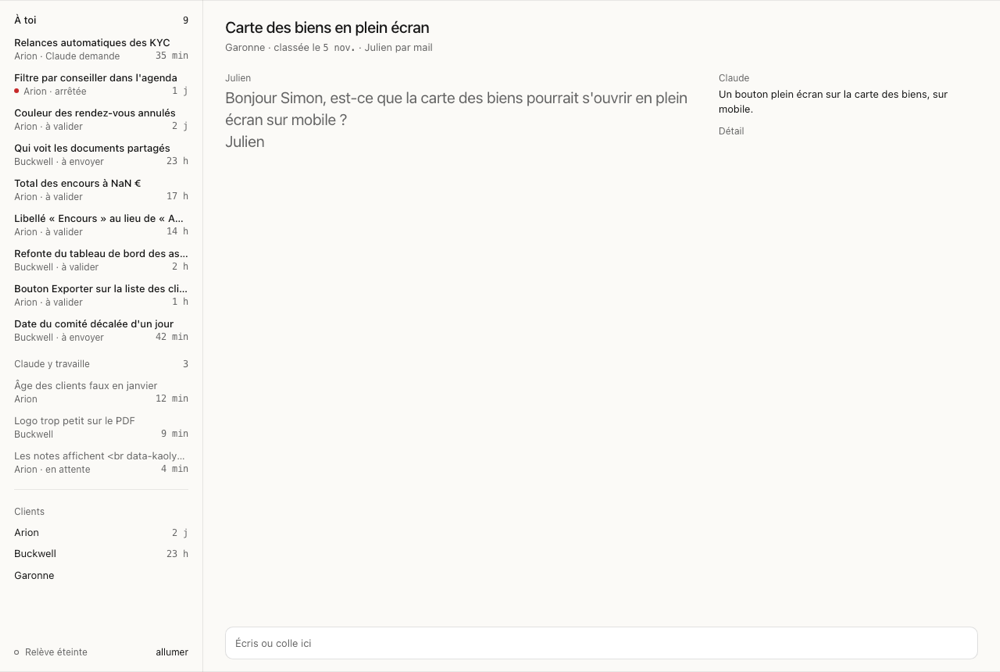
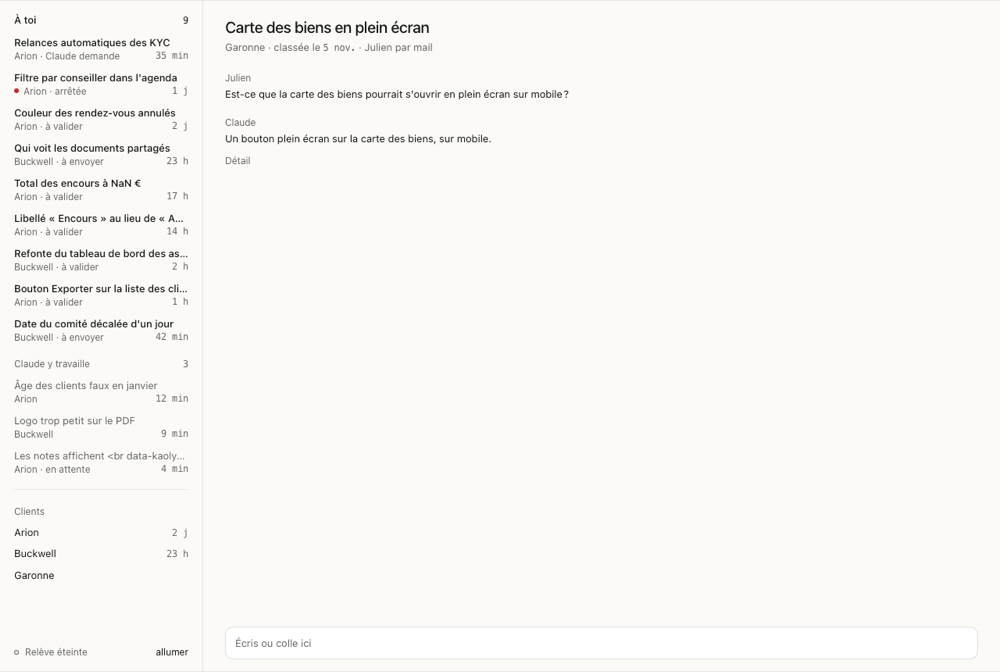
Traces de la reprise : arbre (jugement apparié des trois idées, note finale 93,7) et rapport de la nuit à jour
Le fil à une seule place entre (juges 52→52, 54→56) ; la règle de taille de la
preuve (52→50, 54→54) et le mot par état (56→54, 54→54) restent dehors. Le
rapport dit que la baisse de 97,7 à 90,7 vient du changement de juge, clôt la
retouche qui partait seule (e2f6bf9) et refait les captures changées depuis
eval/sorties/reprise-fil. Note automatique finale 39,7.

Changed region(s): [[0.217, 0.125, 0.682, 0.25], [0.713, 0.0938, 0.961, 0.2188]]

diff --git a/docs/rapport-nuit.html b/docs/rapport-nuit.html
@@ -262,7 +262,7 @@ tr.unsure>td:first-child{padding-left:10px}
 <header class="hero">
 <div class="eyebrow">Kaoly Clients · nuit du 12 au 13 novembre 2026 · branche nuit-2026-11-13</div>
 <h1>Point d'étape de la nuit</h1>
-<p class="lead">L'application tient sur une fenêtre : ce qui t'attend à gauche, une demande à droite, la preuve sous les yeux, un geste pour valider. Note finale 90,7 sur 100, page de départ à 10,2 sur 40.</p>
+<p class="lead">L'application tient sur une fenêtre : ce qui t'attend à gauche, une demande à droite, la preuve sous les yeux, un geste pour valider. Note finale 93,7 sur 100, page de départ à 10,2 sur 40.</p>
 </header>
 
 <nav class="toc" aria-label="Sommaire"><ul>
@@ -272,9 +272,10 @@ tr.unsure>td:first-child{padding-left:10px}
 <h2 id="change">Ce qui change pour toi</h2>
 <ol class="cinq">
 <li><strong>Une fenêtre, une demande à la fois.</strong> À gauche « À toi » avec son compte, puis ce que Claude a en main, puis tes clients. Plus de cartes empilées ni d'étiquettes de couleur.</li>
+<li><strong>Le fil se lit pareil partout.</strong> Le client, puis Claude, puis ton message, toujours dans cet ordre ; sans image, le fil prend la place de la preuve. Le message du client est entier, sans « Bonjour » ni signature.</li>
 <li><strong>Valider tient en un geste.</strong> La preuve (Après, Avant, Vidéo, capture du client), la phrase de Claude, le message au client et « Mettre en ligne et envoyer » (<kbd>⌘↵</kbd>) sur le même écran ; 5 s pour annuler.</li>
 <li><strong>La barre agit.</strong> « ok », « envoie », « classe » font le geste de la demande ouverte ; une question de Claude se règle d'un clic ou de <kbd>⌘1</kbd>.</li>
-<li><strong>Ce qui se règle seul ne te dérange plus.</strong> Un conflit à la mise en ligne repart sans toi ; tu n'es appelé qu'à la seconde panne.</li>
+<li><strong>Ce qui se règle seul ne te dérange plus.</strong> Un conflit à la mise en ligne repart sans toi ; tu n'es appelé qu'à la seconde panne. Ce que tu as déjà relu ne repart jamais seul en ligne.</li>
 <li><strong>Fermer la fenêtre ne coupe plus rien.</strong> La relève et Claude continuent, le Dock garde le compte (après un nouveau build).</li>
 </ol>
 
@@ -286,6 +287,8 @@ tr.unsure>td:first-child{padding-left:10px}
 <figure class="shot"><img src="captures/client.png" alt="Fiche du client Arion : registre des demandes et réglages" width="1000" height="672" loading="lazy">
 <figcaption>Un client : ce qui t'attend, ce que Claude a en main, le passé en gris, ses réglages à côté.</figcaption></figure>
 </div>
+<figure class="shot"><img src="captures/classee.png" alt="Demande classée : Julien puis Claude, à la place de la preuve" width="1000" height="672" loading="lazy">
+<figcaption>Sans image, le fil prend la place de la preuve : Julien, puis Claude, comme partout.</figcaption></figure>
 
 <h2 id="essayer">L'ouvrir et l'essayer</h2>
 <p><strong>Sans risque, sur le jeu d'essai</strong> (faux Claude, faux GitHub, mail vers ton propre Mac, relève éteinte) :</p>
@@ -303,12 +306,12 @@ bun server.ts</pre>
 <div class="tablewrap narrow"><table>
 <thead><tr><th>Question</th><th>Ma recommandation</th></tr></thead>
 <tbody>
-<tr><td><strong>Le fil à une seule place.</strong> Sur certaines demandes, le message du client passe en grand à gauche, là où tu attends la preuve (capture plus bas). Deux essais refusés cette nuit.</td><td>Gauche = ce que tu regardes (preuve, « Pas de capture », question, panne) ; droite = le fil entier, toujours dans le même ordre. Premier chantier.</td></tr>
 <tr><td><strong>Un mot d'accord envoie.</strong> « ok » ou « envoie » dans la barre valent le bouton plein d'une demande à valider ou à envoyer, avec les mêmes 5 s pour annuler.</td><td>Garder. Repli prêt en une ligne si tu préfères le seul bouton.</td></tr>
 <tr><td><strong>Ce qui part avec le mail.</strong> Par défaut, seule la capture « Après » est jointe ; tu peux la retirer d'un clic.</td><td>Garder : le client voit le résultat, pas l'ancien écran.</td></tr>
-<tr><td><strong>Une retouche qui partirait seule.</strong> Cas rare : tu demandes une retouche sur une demande à valider, puis tu actives « Bugs sans validation » pour ce client ; si c'est un bug, la retouche part en ligne sans toi. Le message au client attend toujours ton clic.</td><td>Corriger : ce que tu as retouché revient à toi. Petit changement.</td></tr>
 <tr><td><strong>La puce de la barre.</strong> Avec une demande ouverte, ce que tu tapes va à cette demande. Coller le mail d'un autre client sans retirer la puce le transmettrait comme retouche.</td><td>Garder ; la puce est visible et <kbd>Échap</kbd> la retire. À revoir si ça t'arrive.</td></tr>
 <tr class="unsure"><td><strong>Le badge du Dock fenêtre fermée.</strong> Écrit, compilé, pas encore vu : <code>build.sh</code> n'a pas été lancé cette nuit.</td><td>Lancer le build ce matin, fermer la fenêtre, regarder si le compte bouge.</td></tr>
+<tr><td><strong>Rejuger les idées refusées.</strong> Trois idées avaient été refusées face à la note d'un autre juge.</td><td><span class="pill good">fait</span> Rejugées avant et après par les mêmes juges : le fil à une seule place entre, les deux autres restent dehors.</td></tr>
+<tr><td><strong>Une retouche qui partirait seule.</strong> Tu demandes une retouche sur une demande à valider, puis tu actives « Bugs sans validation » pour ce client.</td><td><span class="pill good">fait</span> Une demande que tu as déjà relue ne repart plus seule en ligne (<code>e2f6bf9</code>). Le message au client attend toujours ton clic.</td></tr>
 </tbody></table></div>
 
 <h2 id="archi">Ce qui va ensemble, et pourquoi</h2>
@@ -332,8 +335,8 @@ bun server.ts</pre>
 <text class="tb" x="236" y="108">Ce que tu regardes</text>
 <text class="t" x="236" y="132">la preuve : Après · Avant · Vidéo</text>
 <text class="t" x="236" y="152">ou « Pas de capture »</text>
-<text class="t" x="236" y="172">ou la question de Claude</text>
-<text class="t" x="236" y="192">ou la raison de la panne</text>
+<text class="t" x="236" y="172">sans image, le fil vient ici</text>
+<text class="t" x="236" y="192">(question, panne, travail)</text>
 <text class="tb" x="545" y="96">Le fil</text>
 <text class="t" x="545" y="120">Claire · sa demande</text>
 <text class="t" x="545" y="142">Claude · ce qui a changé</text>
@@ -360,33 +363,40 @@ bun server.ts</pre>
 <h2 id="mesure">La mesure</h2>
 <div class="tiles">
 <div class="tile"><div class="n">10,2<small> / 40</small></div><div class="l">page de départ, note automatique seule</div></div>
-<div class="tile"><div class="n">97,7</div><div class="l">le plus haut, au cycle 4</div></div>
-<div class="tile"><div class="n">90,7<small> / 100</small></div><div class="l">final : 39,7 automatique + 51 du juge</div></div>
+<div class="tile"><div class="n">97,7</div><div class="l">au cycle 4, avec le premier juge</div></div>
+<div class="tile"><div class="n">93,7<small> / 100</small></div><div class="l">final : 39,7 automatique + 54 du juge</div></div>
 </div>
 <figure>
-<svg viewBox="0 0 760 270" role="img" aria-labelledby="m1t"><title id="m1t">Note sur 100 par cycle, de 94,7 au cycle 0 à 90,7 à la fin</title>
+<svg viewBox="0 0 760 270" role="img" aria-labelledby="m1t"><title id="m1t">Note sur 100 par cycle, de 94,7 au cycle 0 à 93,7 à la fin ; le juge change après le cycle 4</title>
 <line class="chart-grid" x1="60" y1="30" x2="730" y2="30"/><line class="chart-grid" x1="60" y1="90" x2="730" y2="90"/><line class="chart-grid" x1="60" y1="150" x2="730" y2="150"/><line class="chart-grid" x1="60" y1="210" x2="730" y2="210"/>
 <text class="chart-muted" x="50" y="34" text-anchor="end">100</text><text class="chart-muted" x="50" y="94" text-anchor="end">95</text><text class="chart-muted" x="50" y="154" text-anchor="end">90</text><text class="chart-muted" x="50" y="214" text-anchor="end">85</text>
-<polyline class="chart-line" points="90,93.6 190,81.6 290,93.6 390,81.6 490,57.6 590,153.6 690,141.6"/>
-<circle class="chart-dot" cx="90" cy="93.6" r="4.5"/><circle class="chart-dot" cx="190" cy="81.6" r="4.5"/><circle class="chart-dot" cx="290" cy="93.6" r="4.5"/><circle class="chart-dot" cx="390" cy="81.6" r="4.5"/><circle class="chart-dot" cx="490" cy="57.6" r="4.5"/><circle class="chart-dot" cx="590" cy="153.6" r="4.5"/><circle class="chart-dot fin" cx="690" cy="141.6" r="4.5"/>
-<text class="chart-text" x="90" y="80" text-anchor="middle">94,7</text><text class="chart-text" x="190" y="68" text-anchor="middle">95,7</text><text class="chart-text" x="290" y="80" text-anchor="middle">94,7</text><text class="chart-text" x="390" y="68" text-anchor="middle">95,7</text><text class="chart-text" x="490" y="44" text-anchor="middle">97,7</text><text class="chart-text" x="590" y="174" text-anchor="middle">89,7</text><text class="chart-text" x="690" y="128" text-anchor="middle">90,7</text>
-<text class="chart-muted" x="90" y="236" text-anchor="middle">0</text><text class="chart-muted" x="190" y="236" text-anchor="middle">1</text><text class="chart-muted" x="290" y="236" text-anchor="middle">2</text><text class="chart-muted" x="390" y="236" text-anchor="middle">3</text><text class="chart-muted" x="490" y="236" text-anchor="middle">4</text><text class="chart-muted" x="590" y="236" text-anchor="middle">5</text><text class="chart-muted" x="690" y="236" text-anchor="middle">final</text>
-<text class="chart-muted" x="90" y="254" text-anchor="middle">direction</text><text class="chart-muted" x="190" y="254" text-anchor="middle">fil, barre</text><text class="chart-muted" x="290" y="254" text-anchor="middle">envoi</text><text class="chart-muted" x="390" y="254" text-anchor="middle">petit, pannes</text><text class="chart-muted" x="490" y="254" text-anchor="middle">preuve, Dock</text><text class="chart-muted" x="590" y="254" text-anchor="middle">ta parole</text><text class="chart-muted" x="690" y="254" text-anchor="middle">relecture</text>
+<line class="chart-grid" x1="486" y1="18" x2="486" y2="214" stroke-dasharray="4 4"/><text class="chart-muted" x="492" y="22">autre juge</text>
+<polyline class="chart-line" points="90,93.6 178,81.6 266,93.6 354,81.6 442,57.6"/>
+<polyline class="chart-line" stroke-dasharray="3 5" points="442,57.6 530,153.6"/>
+<polyline class="chart-line" points="530,153.6 618,141.6 706,105.6"/>
+<circle class="chart-dot" cx="90" cy="93.6" r="4.5"/><circle class="chart-dot" cx="178" cy="81.6" r="4.5"/><circle class="chart-dot" cx="266" cy="93.6" r="4.5"/><circle class="chart-dot" cx="354" cy="81.6" r="4.5"/><circle class="chart-dot" cx="442" cy="57.6" r="4.5"/><circle class="chart-dot" cx="530" cy="153.6" r="4.5"/><circle class="chart-dot" cx="618" cy="141.6" r="4.5"/><circle class="chart-dot fin" cx="706" cy="105.6" r="4.5"/>
+<text class="chart-text" x="90" y="80.6" text-anchor="middle">94,7</text><text class="chart-text" x="178" y="68.6" text-anchor="middle">95,7</text><text class="chart-text" x="266" y="80.6" text-anchor="middle">94,7</text><text class="chart-text" x="354" y="68.6" text-anchor="middle">95,7</text><text class="chart-text" x="442" y="44.6" text-anchor="middle">97,7</text><text class="chart-text" x="530" y="174.6" text-anchor="middle">89,7</text><text class="chart-text" x="618" y="128.6" text-anchor="middle">90,7</text><text class="chart-text" x="706" y="92.6" text-anchor="middle">93,7</text>
+<text class="chart-muted" x="90" y="236" text-anchor="middle">0</text><text class="chart-muted" x="178" y="236" text-anchor="middle">1</text><text class="chart-muted" x="266" y="236" text-anchor="middle">2</text><text class="chart-muted" x="354" y="236" text-anchor="middle">3</text><text class="chart-muted" x="442" y="236" text-anchor="middle">4</text><text class="chart-muted" x="530" y="236" text-anchor="middle">5</text><text class="chart-muted" x="618" y="236" text-anchor="middle">fin</text><text class="chart-muted" x="706" y="236" text-anchor="middle">reprise</text>
+<text class="chart-muted" x="90" y="254" text-anchor="middle">direction</text><text class="chart-muted" x="178" y="254" text-anchor="middle">fil, barre</text><text class="chart-muted" x="266" y="254" text-anchor="middle">envoi</text><text class="chart-muted" x="354" y="254" text-anchor="middle">petit, pannes</text><text class="chart-muted" x="442" y="254" text-anchor="middle">preuve, Dock</text><text class="chart-muted" x="530" y="254" text-anchor="middle">ta parole</text><text class="chart-muted" x="618" y="254" text-anchor="middle">relecture</text><text class="chart-muted" x="706" y="254" text-anchor="middle">un seul fil</text>
 </svg>
-<figcaption>Note sur 100 du tronc après chaque cycle. L'échelle commence à 85 : tout se joue sur les 60 points du juge, la note automatique est à 39,7 depuis le cycle 0.</figcaption>
+<figcaption>Note sur 100 du tronc après chaque cycle. L'échelle commence à 85 : tout se joue sur les 60 points du juge, la note automatique est à 39,7 depuis le cycle 0. Après le cycle 4, le juge change (trait en pointillé).</figcaption>
 </figure>
 <div class="tablewrap narrow"><table>
 <thead><tr><th>Part</th><th>Ce qu'elle mesure</th><th class="num">Final</th></tr></thead>
 <tbody>
 <tr><td>Automatique</td><td>Dans la page, à 1280 × 860 : mots que l'interface écrit elle-même, nombre d'encadrés, tailles et graisses, contraste, petite fenêtre 760 × 560, gestes au clavier, rien d'envoyé avant 5 s. Note 0 si un essai échoue ou si un texte de client devient du code.</td><td class="num">39,7 / 40</td></tr>
-<tr><td>Juge</td><td>30 questions oui ou non sur les captures, à ta place : hiérarchie, regroupement, sobriété du texte, décision en un geste, lecture d'un client, finition.</td><td class="num">51 / 60</td></tr>
+<tr><td>Juge</td><td>30 questions oui ou non sur les captures, à ta place : hiérarchie, regroupement, sobriété du texte, décision en un geste, lecture d'un client, finition. Moyenne de deux juges (52 et 56).</td><td class="num">54 / 60</td></tr>
 </tbody></table></div>
+<p><strong>La baisse de 97,7 à 90,7 vient du changement de juge, pas d'un recul de l'écran.</strong> 97,7 est le dernier passage du premier juge ; 89,7 puis 90,7 sont les premiers du second, plus sévère. Entre les deux, la note automatique reste à 39,7, le banc reste vert, et les « non » du second juge visent des choses déjà là au cycle 4 : la place du fil, « Bugs sans validation », un titre du jeu d'essai qui contient du code.</p>
+<div class="callout unsure">
+<p><strong>À confirmer : le second juge n'a pas noté les captures du cycle 4.</strong> C'est la seule preuve directe qui manque.</p>
+<p>Pas bloquant : plus aucune décision ne compare deux juges. Chaque idée est notée avant et après par les mêmes deux juges, sur les mêmes vues ; c'est ainsi que le fil à une seule place est entré.</p>
+</div>
 <div class="callout unsure">
 <p><strong>À confirmer : ce que la note ne dit pas.</strong></p>
 <ul>
 <li>La part automatique plafonne depuis le cycle 0 : elle garantit que rien n'est cassé, elle ne départage plus.</li>
-<li>Le juge est un modèle qui lit des captures ; une question vaut 2 points, donc un écart de 2 à 4 points reste du bruit.</li>
-<li>Au dernier cycle, toutes les idées ont eu entre 89,7 et 93,7 et le tronc 89,7 : ce juge-là note plus sévèrement. Deux idées de design refusées (91,7) ont été comparées au 97,7 d'un passage précédent ; face au tronc rejugé, elles auraient passé le seuil.</li>
+<li>Le juge est un modèle qui lit des captures. Le même écran reçoit 52, 54 ou 56 selon le passage : entre deux notes prises à part, un écart de 2 à 4 points reste du bruit.</li>
 <li>Le juge n'a pas noté la page de départ : on n'a d'elle que la part automatique (10,2 / 40).</li>
 <li>Tout est mesuré sur un jeu d'essai de 15 demandes et trois clients, pas sur tes vraies données.</li>
 </ul>
@@ -396,7 +406,7 @@ bun server.ts</pre>
 <figcaption>Pour mémoire, la page de départ : cartes empilées, quatre étiquettes de couleur par demande, un menu par états.</figcaption></figure>
 
 <h2 id="arbre">L'arbre des idées</h2>
-<p>Cinq directions écrites en parallèle, une gardée, puis cinq cycles de cinq idées. Une idée de design n'entre que si elle gagne 1,5 point sur le tronc ; une idée de fonction entre si le banc reste vert et que l'écran ne recule pas.</p>
+<p>Cinq directions écrites en parallèle, une gardée, puis cinq cycles de cinq idées. Une idée de design entrait si elle gagnait 1,5 point sur le tronc ; depuis le changement de juge, deux juges la notent avant et après sur les mêmes vues, et elle entre si les deux la disent meilleure ; une idée de fonction entre si le banc reste vert et que l'écran ne recule pas.</p>
 <figure>
 <svg viewBox="0 0 760 250" role="img" aria-labelledby="t1t"><title id="t1t">Arbre : départ, cinq directions, greffes, puis cinq cycles</title>
 <defs><marker id="ar" viewBox="0 0 10 10" refX="9" refY="5" markerWidth="7" markerHeight="7" orient="auto-start-reverse"><path d="M0,0 L10,5 L0,10 z" fill="var(--muted)"/></marker></defs>
@@ -415,9 +425,9 @@ bun server.ts</pre>
 <rect class="box" x="470" y="62" width="80" height="38"/><text class="tb" x="482" y="86">c2 2/5</text>
 <rect class="box" x="470" y="110" width="80" height="38"/><text class="tb" x="482" y="134">c3 5/5</text>
 <rect class="box" x="470" y="158" width="80" height="38"/><text class="tb" x="482" y="182">c4 3/5</text>
-<rect class="box" x="470" y="206" width="80" height="38"/><text class="tb" x="482" y="230">c5 2/5</text>
+<rect class="box" x="470" y="206" width="80" height="38"/><text class="tb" x="482" y="230">c5 3/5</text>
 <path class="arrow" d="M430,33 L468,33"/><path class="arrow" d="M510,52 L510,60"/><path class="arrow" d="M510,100 L510,108"/><path class="arrow" d="M510,148 L510,156"/><path class="arrow" d="M510,196 L510,204"/>
-<rect class="box hi" x="590" y="200" width="160" height="50"/><text class="tb" x="602" y="222">Final 90,7</text><text class="tm" x="602" y="240">16 gardées, 14 non</text>
+<rect class="box hi" x="590" y="200" width="160" height="50"/><text class="tb" x="602" y="222">Final 93,7</text><text class="tm" x="602" y="240">17 gardées, 13 non</text>
 <path class="arrow" d="M550,225 L588,225"/>
 <text class="tm" x="600" y="60">cN x/5 : idées</text><text class="tm" x="600" y="74">fusionnées</text>
 </svg>
@@ -448,11 +458,11 @@ bun server.ts</pre>
 <tr><td>4</td><td>À gauche seulement ce que tu tranches</td><td class="num">95,7</td><td class="v"><span class="pill bad">refusée</span></td></tr>
 <tr><td>5</td><td>La capture du client dans le cadre de la preuve</td><td class="num">93,7</td><td class="v"><span class="pill good">fusionnée</span></td></tr>
 <tr><td>5</td><td>Ta parole reste dans le fil, question en un clic</td><td class="num">91,7</td><td class="v"><span class="pill good">fusionnée</span></td></tr>
-<tr class="unsure"><td>5</td><td>Un seul fil, à une seule place</td><td class="num">91,7</td><td class="v"><span class="pill unsure">à rejuger</span></td></tr>
-<tr class="unsure"><td>5</td><td>Une seule règle de taille pour la preuve</td><td class="num">91,7</td><td class="v"><span class="pill unsure">à rejuger</span></td></tr>
-<tr class="unsure"><td>5</td><td>Un état, un mot, dans la phrase d'état</td><td class="num">89,7</td><td class="v"><span class="pill unsure">à rejuger</span></td></tr>
+<tr><td>5</td><td>Un seul fil, à une seule place</td><td class="num">52→52 · 54→56</td><td class="v"><span class="pill good">fusionnée</span></td></tr>
+<tr><td>5</td><td>Une seule règle de taille pour la preuve</td><td class="num">52→50 · 54→54</td><td class="v"><span class="pill bad">refusée</span></td></tr>
+<tr><td>5</td><td>Un état, un mot, dans la phrase d'état</td><td class="num">56→54 · 54→54</td><td class="v"><span class="pill bad">refusée</span></td></tr>
 </tbody></table></div>
-<p class="small">Les trois dernières ont été refusées face à 97,7 ; elles traitent exactement les trois défauts restants. Les branches refusées sont supprimées ; leurs commits sont notés dans <code>eval/arbre.json</code> et git les garde encore quelques semaines.</p>
+<p class="small">Les trois dernières, d'abord refusées face au 97,7 de l'autre juge, ont été rejugées sur le tronc : note des deux juges sur 60, avant → après, mêmes vues. Le fil entre. La règle de taille de la preuve sort : ce que Claude a changé quitte parfois le cadre. Le mot par état sort : la phrase perd le canal et les âges ne s'écrivent plus comme dans la colonne. Les branches refusées sont supprimées ; leurs commits sont notés dans <code>eval/arbre.json</code> et git les garde encore quelques semaines.</p>
 
 <h2 id="pas-reel">Ce qui n'a pas tourné en vrai</h2>
 <div class="callout unsure">
@@ -475,20 +485,19 @@ bun server.ts</pre>
 <tr><td>Réaliser une idée dans sa copie de travail</td><td>Sonnet</td></tr>
 <tr><td>Lancer les mesures, captures, corrections cadrées</td><td>Haiku</td></tr>
 <tr><td>Proposer et choisir les idées entre deux cycles</td><td>Opus et Fable</td></tr>
-<tr><td>Juger les captures à ta place</td><td>Fable</td></tr>
+<tr><td>Juger les captures à ta place</td><td>Fable, puis Opus après le cycle 4</td></tr>
 <tr class="unsure"><td colspan="2">Répartition prévue par la règle de la boucle ; le décompte réel par modèle est à lire dans l'usage de ton abonnement.</td></tr>
 </tbody></table></div>
-<p>Le forfait Fable est presque épuisé : la suite tourne au plus sur Opus 5.5, juge compris (ce rapport aussi). Changer de juge change l'échelle des notes : on rejuge le tronc et les idées sur les mêmes captures avant de comparer.</p>
+<p>Le forfait Fable est presque épuisé : la suite tourne au plus sur Opus 5.5, juge compris (ce rapport aussi). Changer de juge change l'échelle des notes : on ne compare plus que des notes avant et après données par les mêmes juges, sur les mêmes captures.</p>
 
 <h2 id="suite">La suite</h2>
-<figure class="shot"><img src="captures/classee.png" alt="Demande classée : le message de Julien en grand à gauche, Claude seul à droite" width="1000" height="672" loading="lazy">
-<figcaption>Le défaut principal : sur une demande classée, le message du client prend la place de la preuve, Claude reste seul à droite.</figcaption></figure>
 <ol>
-<li><strong>Le fil à une seule place</strong>, toujours à droite, dans le même ordre ; à gauche seulement ce que tu regardes. Rejuger d'abord « Un seul fil, à une seule place » face au tronc.</li>
-<li><strong>Petite fenêtre :</strong> ne jamais couper la demande du client ; la preuve garde au moins 200 px, entière et réduite.</li>
-<li><strong>La phrase d'état dans un seul ordre :</strong> client · nature · en ligne ou pas · prénom par canal · âge.</li>
-<li><strong>Petites finitions :</strong> un verbe d'état sur chaque ligne de « Claude y travaille » ; un titre en mots quand le client colle du code ; « Rien ne t'attend » seulement si la file est vide, « Demande introuvable » pour une adresse morte.</li>
-<li>Corriger la retouche qui pourrait partir seule.</li>
+<li><strong>Finir le fil :</strong> « Détail » toujours au même endroit ; en petite fenêtre, le nom de qui parle toujours au-dessus de son texte ; la liste numérotée du client gardée.</li>
+<li><strong>Petite fenêtre :</strong> le texte du client finit encore par « … » sur les demandes à valider ; la preuve garde au moins 200 px, entière et réduite.</li>
+<li><strong>Du code dans un texte de client :</strong> un titre en mots, le code cité rangé dans Détail ; « Bugs sans validation » dit en français.</li>
+<li><strong>Une seule règle de taille pour la preuve</strong>, à reprendre sans jamais sortir du cadre ce que Claude a changé.</li>
+<li><strong>Un état, un mot</strong>, à reprendre en gardant le canal et les âges écrits comme dans la colonne.</li>
+<li><strong>Petites finitions :</strong> un verbe d'état sur chaque ligne de « Claude y travaille » ; « Rien ne t'attend » seulement si la file est vide, « Demande introuvable » pour une adresse morte.</li>
 <li>Build, puis premier essai réel sur un client de test.</li>
 <li>Plus tard, comme tu l'as dit : suivi d'usage et avancement des déploiements.</li>
 </ol>
